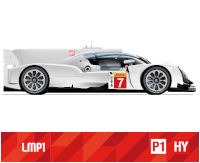
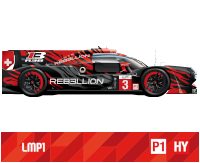
index.html >> changed the cards with blank white car to colorued cars for better, easier gameplay

Changed region(s): [[0.0, 0.2761, 0.99, 0.6135]]

diff --git a/index.html b/index.html
@@ -67,23 +67,23 @@
                 <img class="back-face" src="assets/images/card_back.png" alt="card backside">
             </div>
             <div class="card" data-carddata="lmp2_1">
-                <img class="front-face" src="assets/images/lmp2_1.png" alt="card lmp1 car">
+                <img class="front-face" src="assets/images/lmp2_1.png" alt="card lmp2 car">
                 <img class="back-face" src="assets/images/card_back.png" alt="card backside">
             </div>
             <div class="card" data-carddata="lmp2_1">
-                <img class="front-face" src="assets/images/lmp2_1.png" alt="card lmp1 car">
+                <img class="front-face" src="assets/images/lmp2_1.png" alt="card lmp2 car">
                 <img class="back-face" src="assets/images/card_back.png" alt="card backside">
             </div>
             <div class="card" data-carddata="lmp2_2">
-                <img class="front-face" src="assets/images/lmp2_2.png" alt="card lmp1 car">
+                <img class="front-face" src="assets/images/lmp2_2.png" alt="card lmp2 car">
                 <img class="back-face" src="assets/images/card_back.png" alt="card backside">
             </div>
             <div class="card" data-carddata="lmp2_2">
-                <img class="front-face" src="assets/images/lmp2_2.png" alt="card lmp1 car">
+                <img class="front-face" src="assets/images/lmp2_2.png" alt="card lmp2 car">
                 <img class="back-face" src="assets/images/card_back.png" alt="card backside">
             </div>
             <div class="card" data-carddata="lmp2_3">
-                <img class="front-face" src="assets/images/lmp2_3.png" alt="card lmp1 car">
+                <img class="front-face" src="assets/images/lmp2_3.png" alt="card lmp2 car">
                 <img class="back-face" src="assets/images/card_back.png" alt="card backside">
             </div>
             <div class="card" data-carddata="lmp2_3">
@@ -91,75 +91,75 @@
                 <img class="back-face" src="assets/images/card_back.png" alt="card backside">
             </div>
             <div class="card" data-carddata="lmgtepro1_1">
-                <img class="front-face" src="assets/images/lmgtepro1_1.png" alt="card lmp1 car">
+                <img class="front-face" src="assets/images/lmgtepro1_1.png" alt="card lmgtepro car">
                 <img class="back-face" src="assets/images/card_back.png" alt="card backside">
             </div>
             <div class="card" data-carddata="lmgtepro1_1">
-                <img class="front-face" src="assets/images/lmgtepro1_1.png" alt="card lmp1 car">
+                <img class="front-face" src="assets/images/lmgtepro1_1.png" alt="card lmlmgtepro1 car">
                 <img class="back-face" src="assets/images/card_back.png" alt="card backside">
             </div>
             <div class="card" data-carddata="lmgtepro1_2">
-                <img class="front-face" src="assets/images/lmgtepro1_2.png" alt="card lmp1 car">
+                <img class="front-face" src="assets/images/lmgtepro1_2.png" alt="card lmgtepro car">
                 <img class="back-face" src="assets/images/card_back.png" alt="card backside">
             </div>
             <div class="card" data-carddata="lmgtepro1_2">
-                <img class="front-face" src="assets/images/lmgtepro1_2.png" alt="card lmp1 car">
+                <img class="front-face" src="assets/images/lmgtepro1_2.png" alt="card lmgtepro car">
                 <img class="back-face" src="assets/images/card_back.png" alt="card backside">
             </div>
             <div class="card" data-carddata="lmgtepro1_3">
-                <img class="front-face" src="assets/images/lmgtepro1_3.png" alt="card lmp1 car">
+                <img class="front-face" src="assets/images/lmgtepro1_3.png" alt="card lmgtepro car">
                 <img class="back-face" src="assets/images/card_back.png" alt="card backside">
             </div>
             <div class="card" data-carddata="lmgtepro1_3">
-                <img class="front-face" src="assets/images/lmgtepro1_3.png" alt="card lmp1 car">
+                <img class="front-face" src="assets/images/lmgtepro1_3.png" alt="card lmgtepro car">
                 <img class="back-face" src="assets/images/card_back.png" alt="card backside">
             </div>
             <div class="card" data-carddata="lmgtepro1_4">
-                <img class="front-face" src="assets/images/lmgtepro1_4.png" alt="card lmp1 car">
+                <img class="front-face" src="assets/images/lmgteam1_3.png" alt="card lmgteam car">
                 <img class="back-face" src="assets/images/card_back.png" alt="card backside">
             </div>
             <div class="card" data-carddata="lmgtepro1_4">
-                <img class="front-face" src="assets/images/lmgtepro1_4.png" alt="card lmp1 car">
+                <img class="front-face" src="assets/images/lmgteam1_3.png" alt="card lmgteam car">
                 <img class="back-face" src="assets/images/card_back.png" alt="card backside">
             </div>
             <div class="card" data-carddata="lmgteam1_1">
-                <img class="front-face" src="assets/images/lmgteam1_1.png" alt="card lmp1 car">
+                <img class="front-face" src="assets/images/lmgteam1_1.png" alt="card lmgteam car">
                 <img class="back-face" src="assets/images/card_back.png" alt="card backside">
             </div>
             <div class="card" data-carddata="lmgteam1_1">
-                <img class="front-face" src="assets/images/lmgteam1_1.png" alt="card lmp1 car">
+                <img class="front-face" src="assets/images/lmgteam1_1.png" alt="card lmgteam car">
                 <img class="back-face" src="assets/images/card_back.png" alt="card backside">
             </div>
             <div class="card" data-carddata="lmgteam1_2">
-                <img class="front-face" src="assets/images/lmgteam1_2.png" alt="card lmp1 car">
+                <img class="front-face" src="assets/images/lmgteam1_2.png" alt="card lmgteam car">
                 <img class="back-face" src="assets/images/card_back.png" alt="card backside">
             </div>
             <div class="card" data-carddata="lmgteam1_2">
-                <img class="front-face" src="assets/images/lmgteam1_2.png" alt="card lmp1 car">
+                <img class="front-face" src="assets/images/lmgteam1_2.png" alt="card lmgteam car">
                 <img class="back-face" src="assets/images/card_back.png" alt="card backside">
             </div>
             <div class="card" data-carddata="lmgte_aston">
-                <img class="front-face" src="assets/images/lmgte_aston.png" alt="card lmp1 car">
+                <img class="front-face" src="assets/images/lmgte_aston.png" alt="card aston_martin">
                 <img class="back-face" src="assets/images/card_back.png" alt="card backside">
             </div>
             <div class="card" data-carddata="lmgte_aston">
-                <img class="front-face" src="assets/images/lmgte_aston.png" alt="card lmp1 car">
+                <img class="front-face" src="assets/images/lmgte_aston.png" alt="card aston_martin">
                 <img class="back-face" src="assets/images/card_back.png" alt="card backside">
             </div>
             <div class="card" data-carddata="rolex">
-                <img class="front-face" src="assets/images/rolex.png" alt="card lmp1 car">
+                <img class="front-face" src="assets/images/rolex.png" alt="card rolex">
                 <img class="back-face" src="assets/images/card_back.png" alt="card backside">
             </div>
             <div class="card" data-carddata="rolex">
-                <img class="front-face" src="assets/images/rolex.png" alt="card lmp1 car">
+                <img class="front-face" src="assets/images/rolex.png" alt="card rolex">
                 <img class="back-face" src="assets/images/card_back.png" alt="card backside">
             </div>
             <div class="card" data-carddata="michelin">
-                <img class="front-face" src="assets/images/michelin.png" alt="card lmp1 car">
+                <img class="front-face" src="assets/images/michelin.png" alt="card michelin">
                 <img class="back-face" src="assets/images/card_back.png" alt="card backside">
             </div>
             <div class="card" data-carddata="michelin">
-                <img class="front-face" src="assets/images/michelin.png" alt="card lmp1 car">
+                <img class="front-face" src="assets/images/michelin.png" alt="card michelin">
                 <img class="back-face" src="assets/images/card_back.png" alt="card backside">
             </div>
             <!-- /Memory card game content-->
